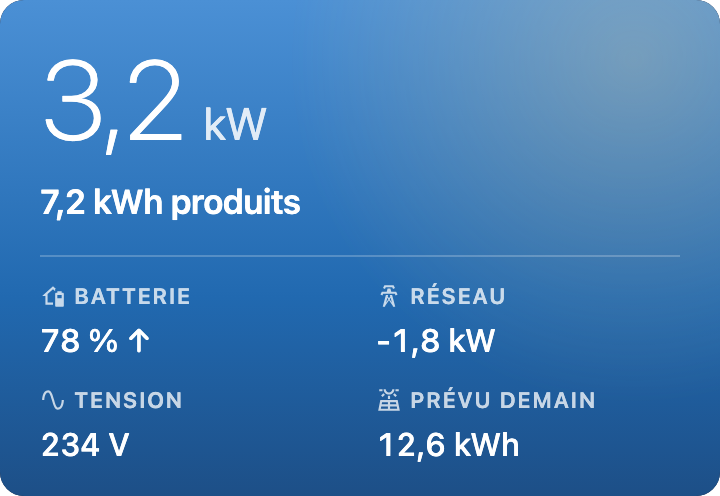
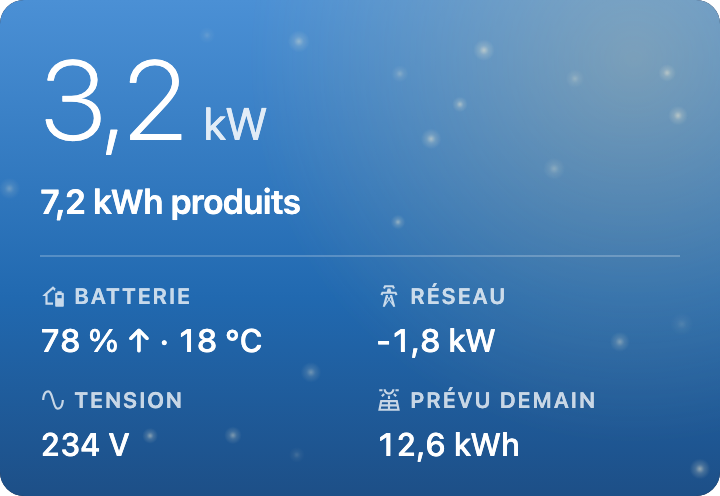
README pictures for 0.3.0 with a night animation; browser checks in CI; roadmap
scripts/screenshots.mjs makes the four stills and an animated PNG of the
night sky (assembled by the script, no ffmpeg). test:browser now runs in CI
and before a release, and fails there rather than skipping without Chrome.

diff --git a/docs/ROADMAP.md b/docs/ROADMAP.md
@@ -1,0 +1,25 @@
+# Roadmap
+
+Ideas to improve Energy Sky Card, by priority (written after 0.3.0, 2026-11-15). Done items are ticked with the version that shipped them.
+
+## Now: small and safe
+
+1. [x] **README screenshots up to date** (0.3.1). `docs/images/*.png` predate 0.3.0 (night stars still held in the top-right quarter, no day motes). Regenerate them with `demo/shot.sh` (`bare`), and add a short night GIF: the animation is now the card's signature.
+2. [x] **`test:browser` in CI** (0.3.1). `ci.yml` and `release.yml` only run `npm test`: overflow at 304 px, animations paused off-screen and particles kept off text are only checked locally. Chrome is on GitHub's Ubuntu runners.
+
+## Easier setup (most value for other users)
+
+3. [ ] **Prefill from the Energy dashboard.** Home Assistant's energy preferences already list the solar, battery and grid sensors. `getStubConfig` only picks the first W sensor; reading `energy/get_prefs` (and the sensors on the same devices) would give a nearly ready card when it is added.
+4. [ ] **One action per cell.** Tapping « Réseau » opens the grid sensor's more-info rather than the card's single action: the natural reflex on a dashboard.
+5. [ ] **Accessibility.** A summary screen readers can read (« Production 3,2 kW, batterie 78 % en charge, vente 1,8 kW ») instead of fragments.
+
+## A sky that carries more information (the card's identity)
+
+6. [ ] **Tomorrow's Tempo colour.** The useful one, to plan ahead of a Rouge day: a thin band at the bottom, or a tint settling in at dusk. Must pass the contrast test.
+7. [ ] **Sunrise and sunset.** Day / night is binary today: a transition palette (dawn, golden hour) from the sun's elevation, and a halo that follows its position (`sun.sun` has elevation and azimuth).
+8. [ ] **Weather.** An optional `weather` entity: fewer light motes when overcast, the moon and its phase at night.
+
+## Reach
+
+9. [ ] **HACS default list.** Submit to `hacs/default` so the card can be found without adding a custom repository (the HACS validation already passes). Then a post on the Home Assistant forum (Dashboards & Frontend) with the GIF.
+10. [ ] **Beyond France.** Tempo is EDF's: generic palettes for peak / off-peak or a dynamic tariff would open the card to other countries. That would loosen the « French and English only » rule, which today is about strings.

diff --git a/CLAUDE.md b/CLAUDE.md
@@ -14,7 +14,8 @@ npm run build        # the two bundles, written to the repository root
 npm run dev          # rebuild on change
 npm run type-check   # tsc --noEmit, strict
 npm test             # Vitest, once (build first: test/build.test.ts checks the bundle)
-npm run test:browser # headless Chrome: real animations pause off-screen, none under reduced motion
+npm run test:browser # headless Chrome: animations pause off-screen, none under reduced motion, no overflow, sky off text (also in CI)
+npm run screenshots  # the README's pictures in docs/images/ (4 stills + nuit-anim.png, an animated PNG)
 npm run test:coverage
 ```
 
@@ -70,7 +71,7 @@ test/
 
 ## Local demo
 
-`demo/index.html` runs the built card on sample readings (`demo/scenarios.js`, rendered by `demo/main.js`) with stand-ins for `ha-card` and `ha-icon` (real MDI paths from `demo/icons.js`, generated by `npm run demo:icons`), in a 248 px sections cell (4 rows; `h=184` for 3). Query: `s=bleu,nuit`, `widths=360,304`, `lang=en`, `bare` (one card, no chrome: the README screenshots in `docs/images/`), `probe` (motion and overflow report, read by `test:browser`), `seek=ms` (freeze every animation at that time, to screenshot it), `layout` (text positions as fractions of the height, for the contrast test). `demo/shot.sh out.png "s=bleu"` screenshots it. Build first.
+`demo/index.html` runs the built card on sample readings (`demo/scenarios.js`, rendered by `demo/main.js`) with stand-ins for `ha-card` and `ha-icon` (real MDI paths from `demo/icons.js`, generated by `npm run demo:icons`), in a 248 px sections cell (4 rows; `h=184` for 3). Query: `s=bleu,nuit`, `widths=360,304`, `lang=en`, `bare` (one card, no chrome: the README screenshots in `docs/images/`), `probe` (motion and overflow report, read by `test:browser`), `seek=ms` (freeze every animation at that time, to screenshot it), `layout` (text positions as fractions of the height, for the contrast test). `demo/shot.sh out.png "s=bleu"` screenshots it; `npm run screenshots` (scripts/screenshots.mjs) makes the README's pictures, the animation assembled as an APNG by the script itself (no ffmpeg). Build first.
 
 ## Behaviour notes
 

diff --git a/README.md b/README.md
@@ -10,6 +10,8 @@ Une carte de tableau de bord Home Assistant qui affiche la production solaire, l
 | **Jour Rouge** | **Nuit** |
 | ![Jour Rouge](docs/images/rouge.png) | ![Nuit](docs/images/nuit.png) |
 
+<img src="docs/images/nuit-anim.png" width="360" alt="La nuit, animée : les étoiles scintillent sur tout le ciel, une étoile filante passe">
+
 ## Ce que montre la carte
 
 - **Production solaire instantanée**, en grand : « 748 W », puis « 3,2 kW » à partir de 1 000 W.
@@ -214,6 +216,7 @@ npm run build          # energy-sky-card.js and energy-sky-card-editor.js
 npm run type-check
 npm test               # Vitest
 npm run test:browser   # headless Chrome: animations pause off-screen, nothing overflows at 320 px
+npm run screenshots    # the pictures above, from the demo
 ```
 
 `demo/index.html` runs the built card on sample readings; `demo/shot.sh` screenshots it. See [CLAUDE.md](CLAUDE.md) for a map of the code.
